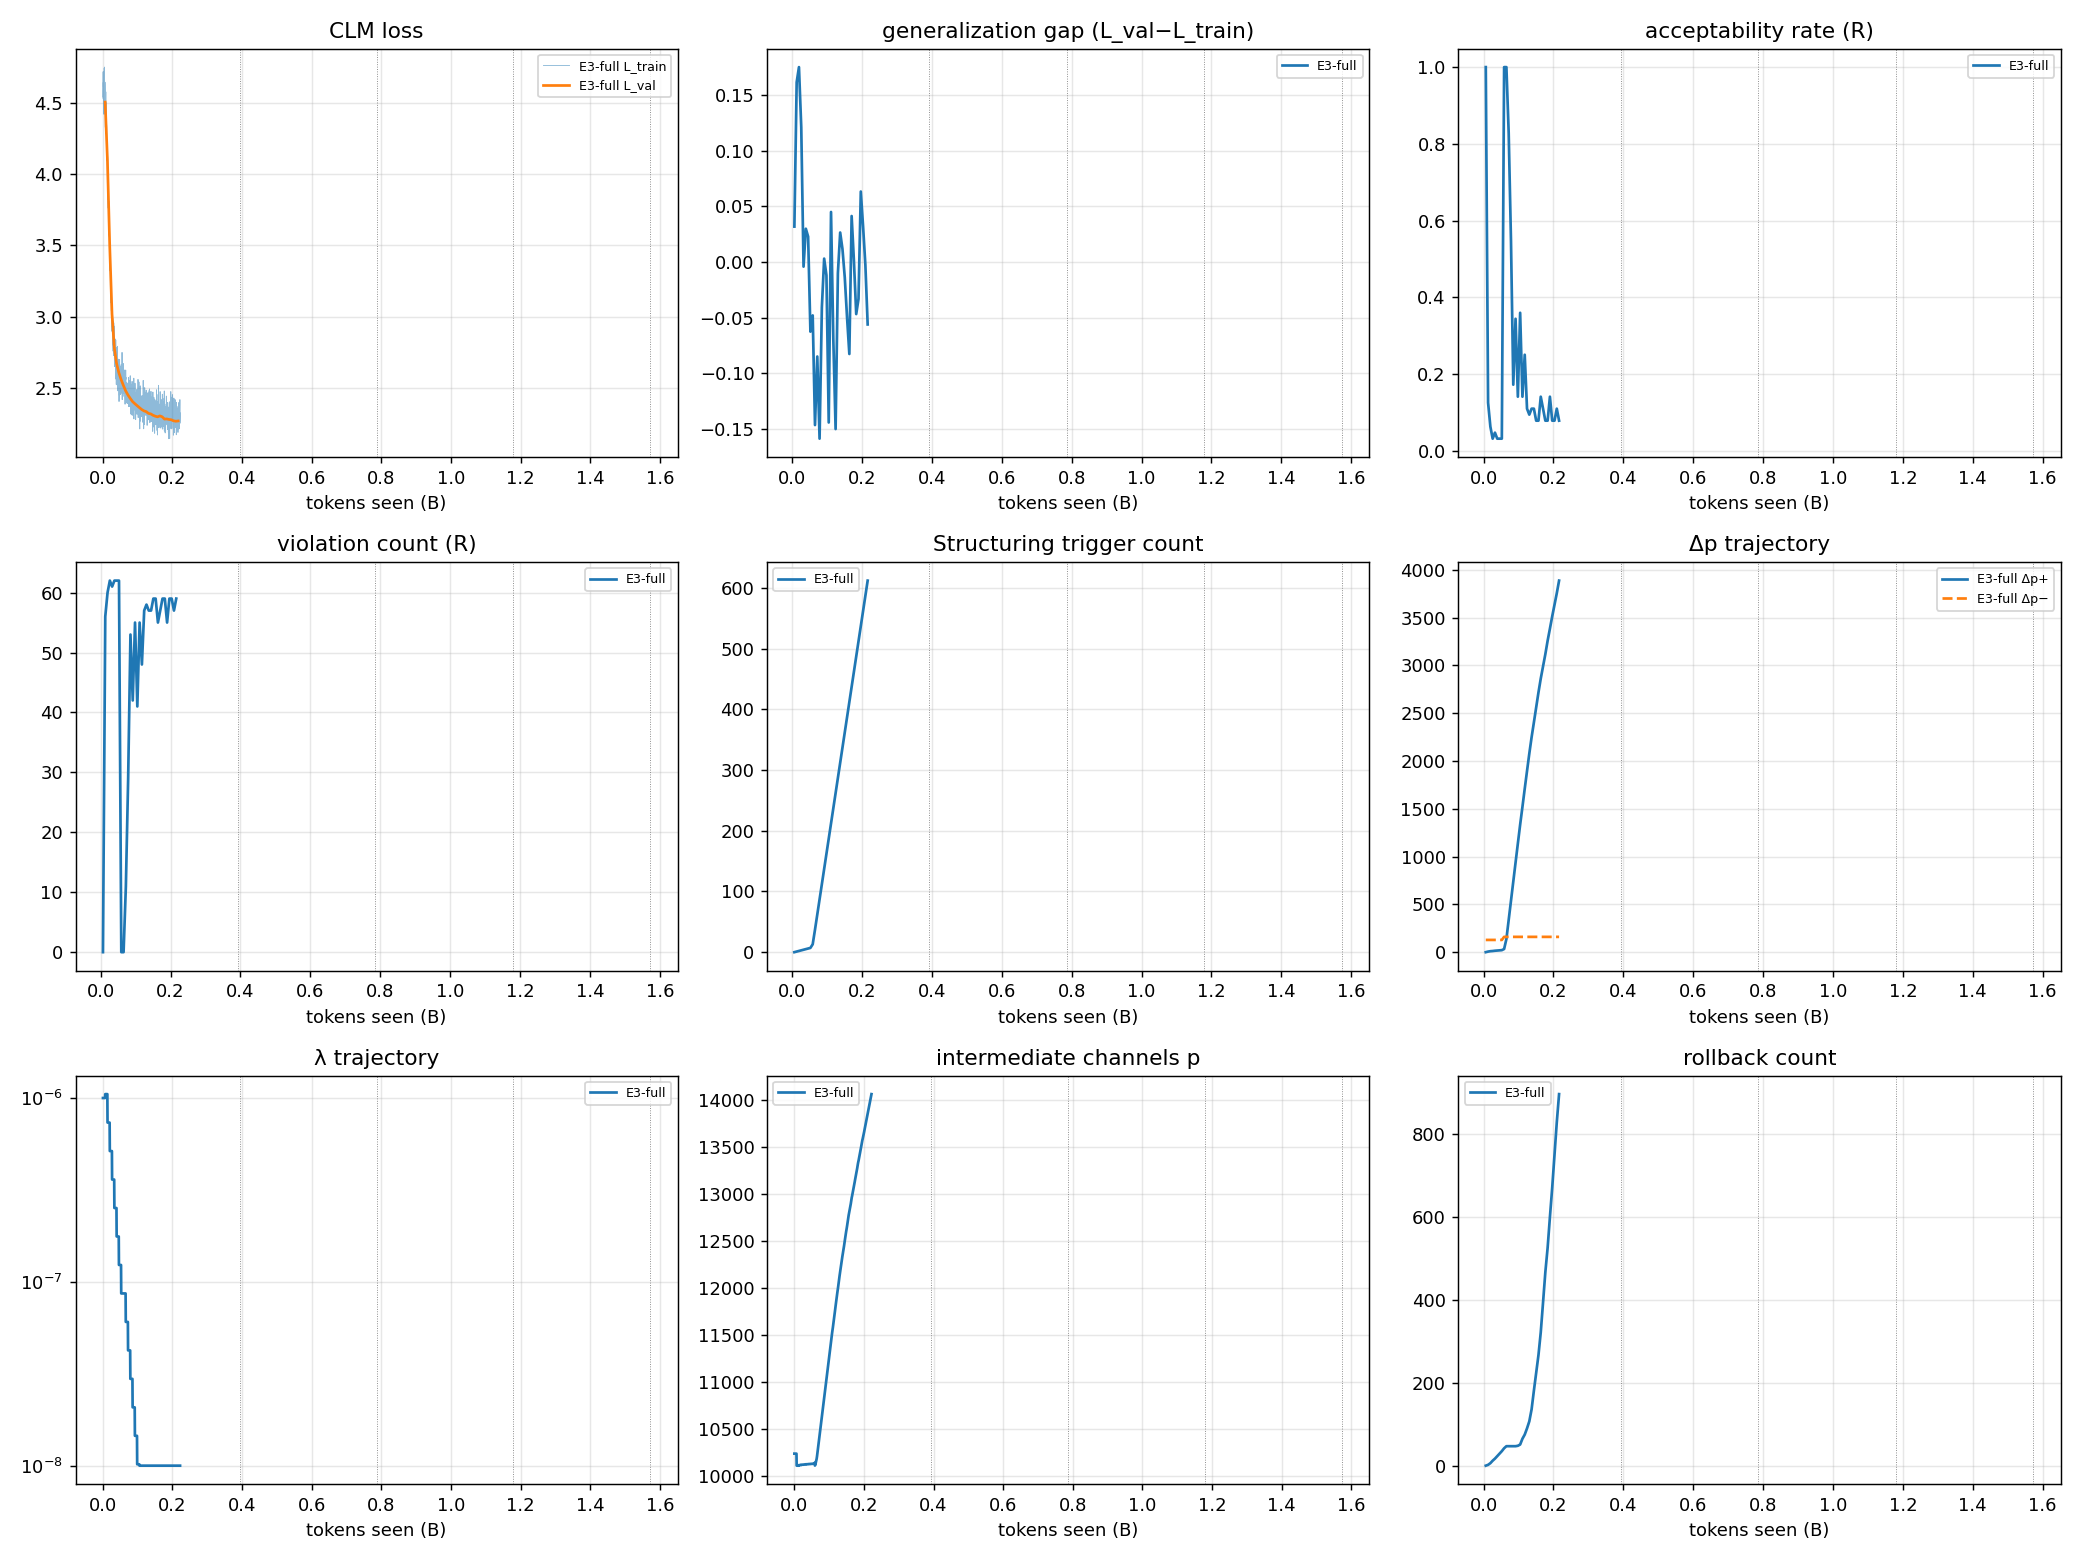
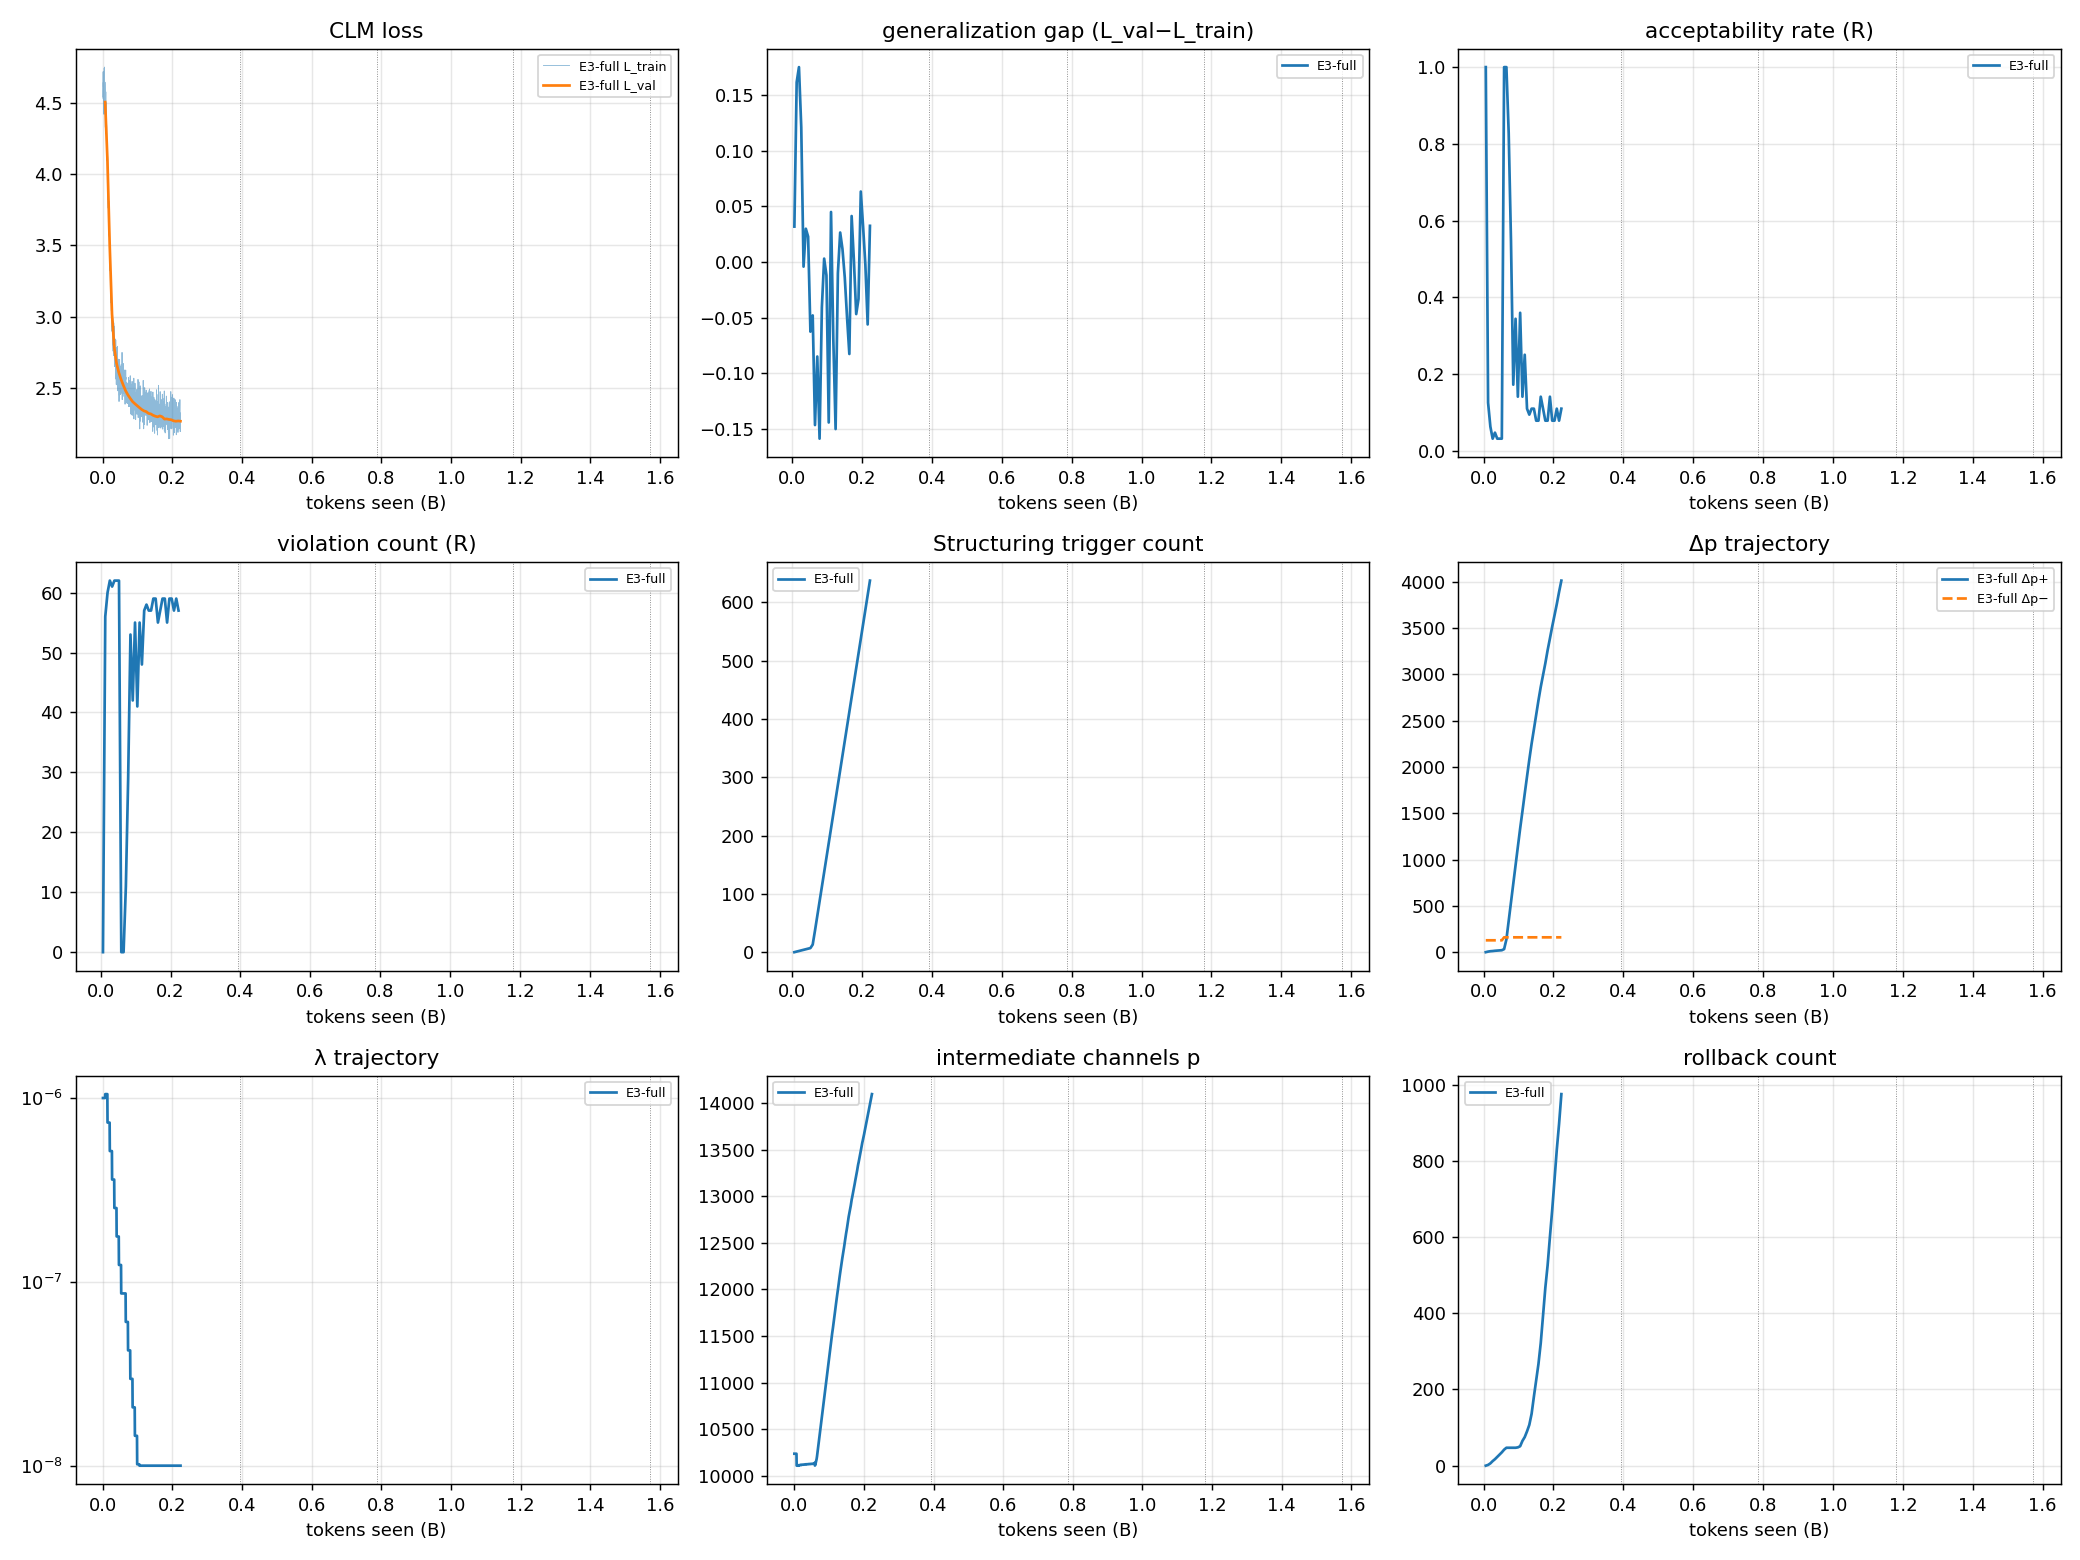
records: 2026-10-06 09:43 E3-full (E3 step 851)

diff --git a/docs/results/feasibility.md b/docs/results/feasibility.md
@@ -1,4 +1,4 @@
 | track | experiment | can run | tokens/s (median) | peak alloc GiB | device used GiB | wall-clock h | stop |
 |---|---|---|---|---|---|---|---|
-| ASUS GX10 | E3-full | yes | 390 | 35.55 | 70.77 | 175.4 | running |
+| ASUS GX10 | E3-full | yes | 390 | 35.57 | 70.77 | 180.2 | running |
 | AI-Stack (AMD MI300/ROCm/DeepSpeed) | — | not run on this machine | — | — | — | — | — |

diff --git a/docs/results/module_table.md b/docs/results/module_table.md
@@ -1,3 +1,3 @@
 | exp | struct triggers | repair attempts | repair success | isolate fail | Δp+ | Δp− | rollback | NT rounds | NT Fail | final p | final λ |
 |---|---|---|---|---|---|---|---|---|---|---|---|
-| E3-full | 612 | 4773 | 3888 | 0 | 3888 | 160 | 897 | 3 | 12 | 13968 | 1.00e-08 |
+| E3-full | 637 | 4973 | 4010 | 0 | 4010 | 160 | 975 | 3 | 12 | 14090 | 1.00e-08 |
